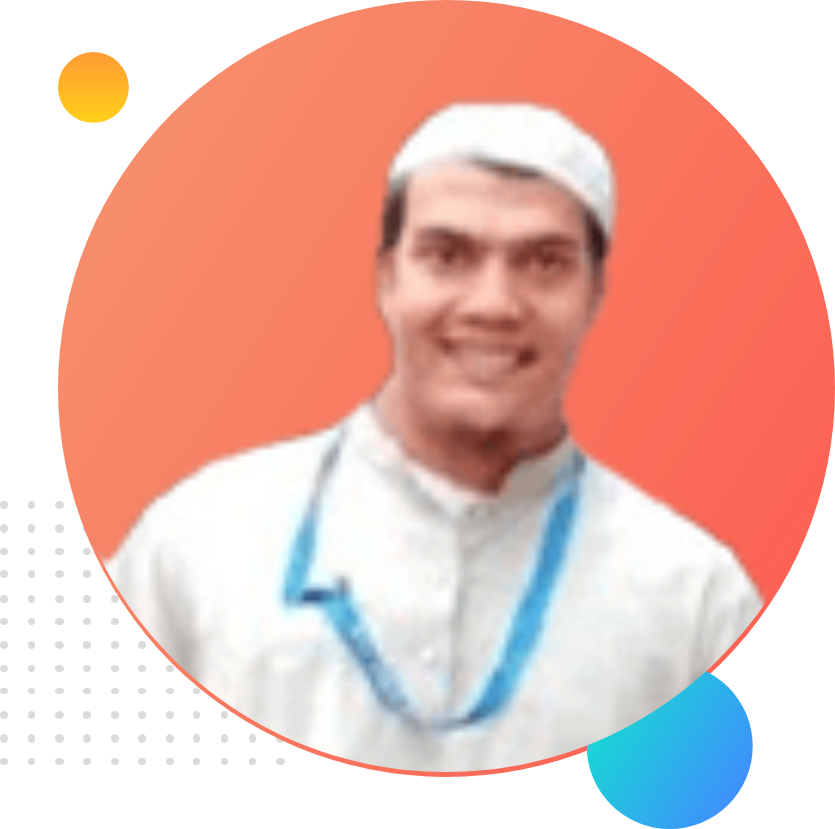
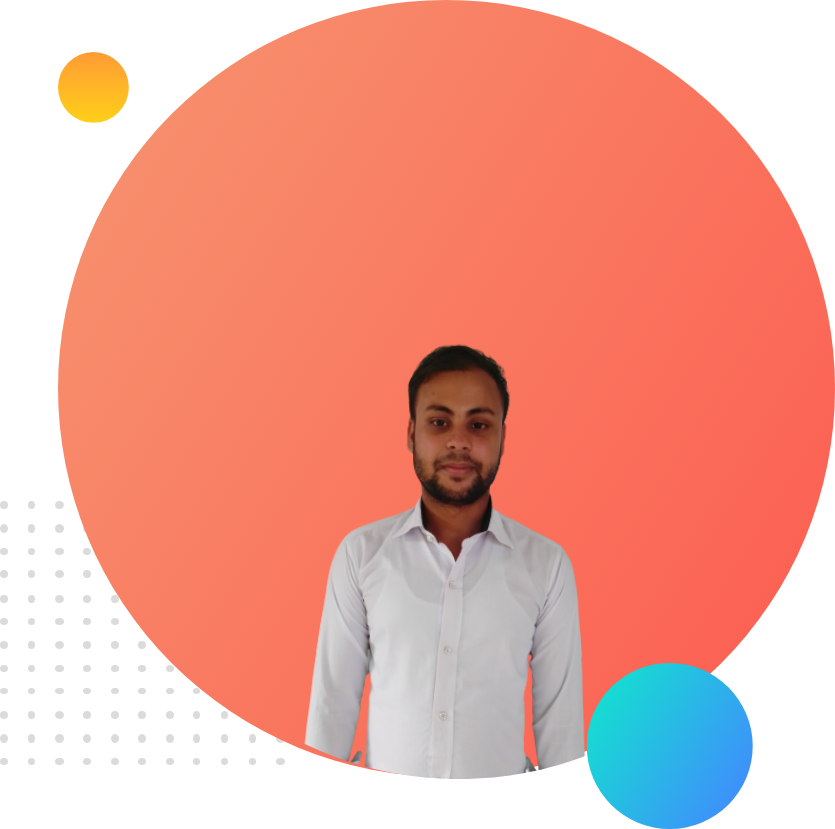
header part send

diff --git a/index.html b/index.html
@@ -1,0 +1,27 @@
+<!DOCTYPE html>
+<html lang="en">
+<head>
+    <meta charset="UTF-8">
+    <meta http-equiv="X-UA-Compatible" content="IE=edge">
+    <meta name="viewport" content="width=device-width, initial-scale=1.0">
+    <title>professional portfolio</title>
+    <link rel="stylesheet" href="style.css">
+    <link rel="preconnect" href="https://fonts.googleapis.com">
+<link rel="preconnect" href="https://fonts.gstatic.com" crossorigin>
+<link href="https://fonts.googleapis.com/css2?family=Poppins:ital@1&display=swap" rel="stylesheet">
+</head>
+<body>
+  <section id="header">
+      <div class="header-part">
+        <h1>Welcome to</h1>
+        <h1><span class="text-color">Bipul Deb Nath</span> Word!</h1> 
+        <h2>Full Stack Web development With JavaScript</h2>
+        <p>Lorem ipsum dolor sit amet consectetur adipisicing elit. Corporis asperiores possimus inventore earum dignissimos officia cum dolorem repellat quia accusamus, voluptates placeat reprehenderit recusandae necessitatibus, ipsum illum enim repellendus veniam dolore aspernatur nulla temporibus iste eius atque. Voluptatum voluptate, molestiae odio ut molestias, consectetur, quis eveniet aliquid laboriosam minima tempore voluptatem iusto! Alias eligendi consequatur corporis. Id iure error, nulla nihil ex eaque animi hic unde incidunt excepturi quibusdam aliquam.</p>
+        <a class="link-color" href="http://linkedin,com">Hire me</a>
+      </div>
+       <div class="header-part">
+       <img src="images/header-bg.png" alt="header photo">
+       </div>     
+  </section>
+</body>
+</html>

diff --git a/style.css b/style.css
@@ -1,0 +1,28 @@
+body{
+    font-family: 'Poppins', sans-serif;
+    margin: 0;
+}
+#header{
+    display: flex;
+    background-image:url(images/top-banner.png) ;
+    background-repeat: no-repeat;
+}
+.header-part{
+    width: 50%;
+    padding-left: 5%;
+}
+.text-color{
+    color: orange;
+}
+.link-color{
+    padding: 10px 40px;
+    text-decoration: none;
+     background-image: linear-gradient(red,yellow);
+     border-radius: 10px;
+}
+h1{
+    font-size: 50px;
+}
+.header-part img{
+    width: 100;
+}
